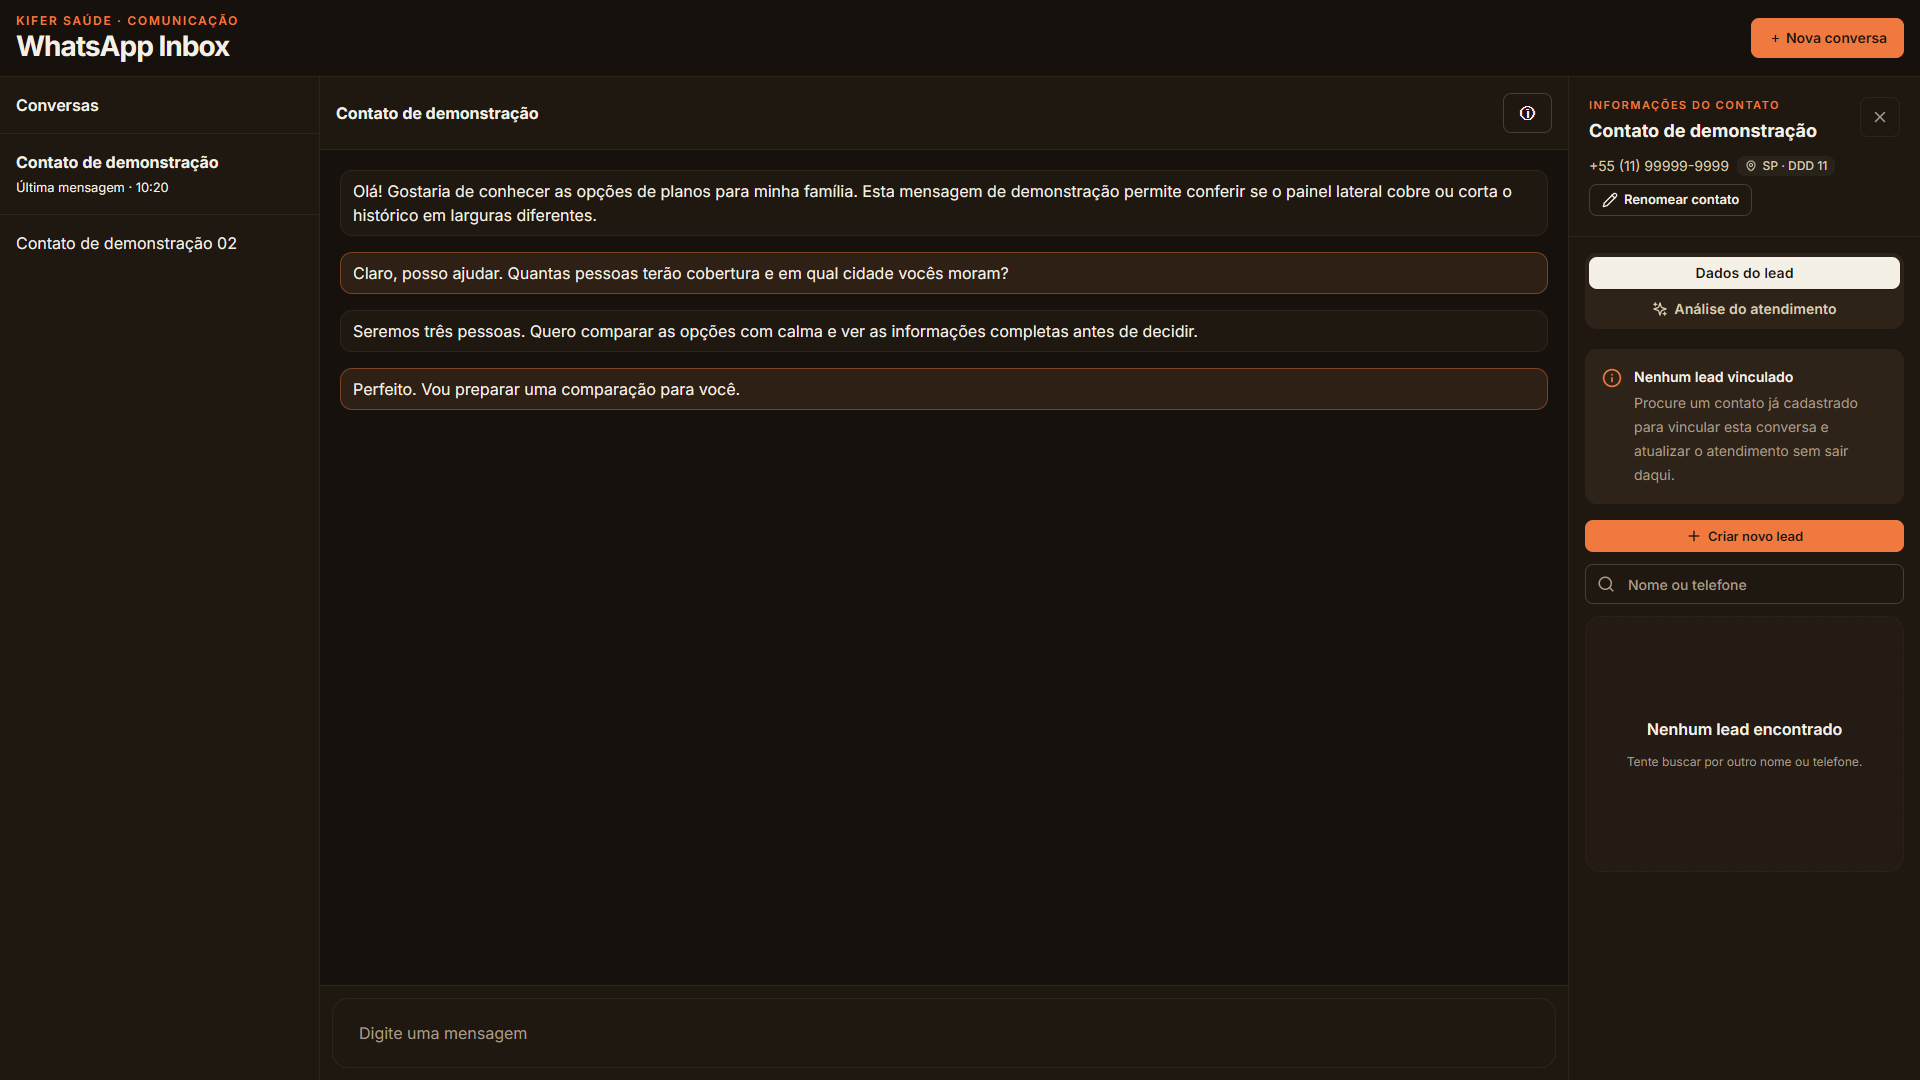
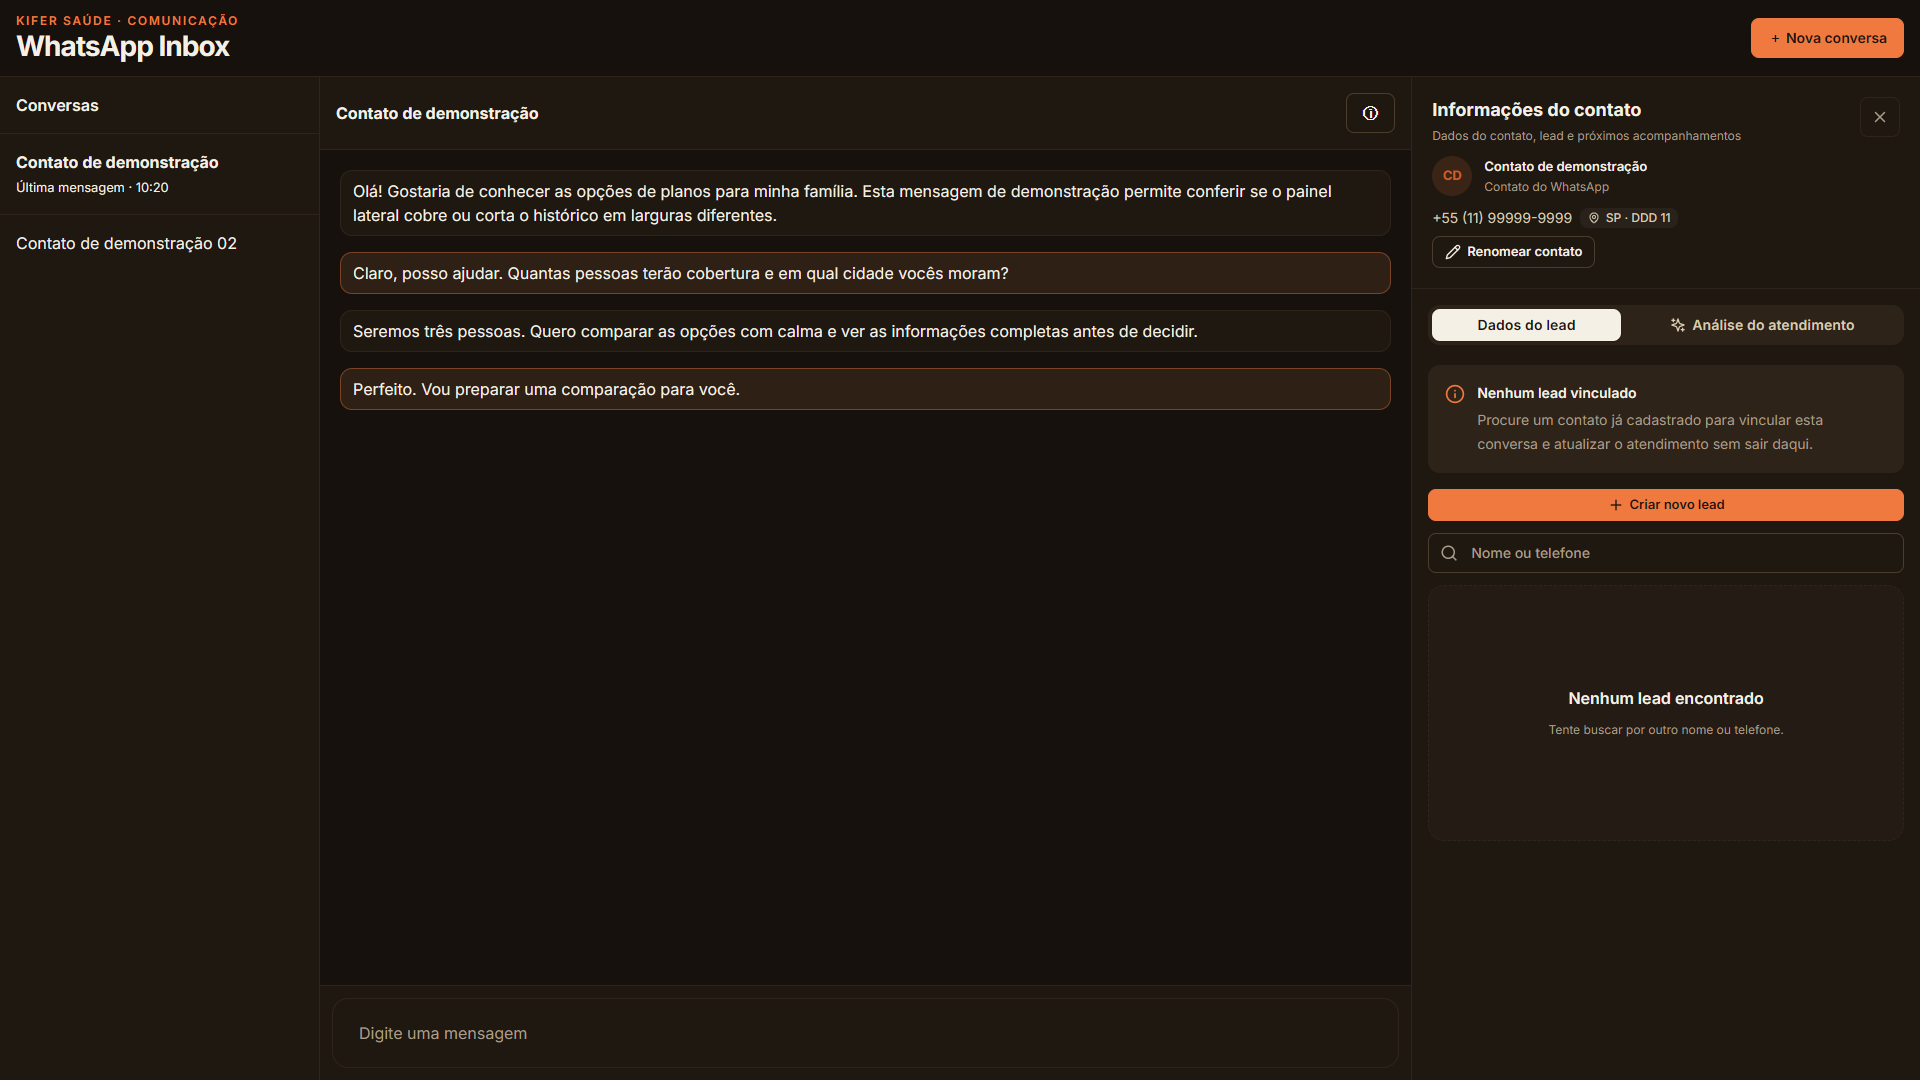
fix(inbox): keep inbound media timestamps inset

Changed region(s): [[0.6875, 0.0917, 1.0, 0.55], [0.8125, 0.6417, 0.9688, 0.7333], [0.1875, 0.1833, 0.4062, 0.2139]]

diff --git a/src/features/communication/whatsapp/components/WhatsAppLeadDrawer.tsx b/src/features/communication/whatsapp/components/WhatsAppLeadDrawer.tsx
@@ -1,4 +1,3 @@
-import { Text, Heading } from '../../../../design-system';
 import { AlertTriangle, ArrowUpRight, Bell, Bot, CalendarPlus, Check, Clock3, Loader2, MapPin, Pencil, RefreshCw, Sparkles, Unlink, Info, Link2, Plus, UserPlus } from 'lucide-react';
 import { useCallback, useEffect, useMemo, useRef, useState, type ChangeEvent } from 'react';
 
@@ -6,6 +5,7 @@ import LeadDetailsPanel from '../../../../components/LeadDetailsPanel';
 import { LeadFavoriteBadge } from '../../../../components/LeadFavoriteStar';
 import ReminderSchedulerModal from '../../../../components/ReminderSchedulerModal';
 import {
+  Avatar,
   Badge,
   Button,
   DateTimePicker,
@@ -14,11 +14,13 @@ import {
   DrawerBody,
   DrawerHeader,
   EmptyState,
+  Heading,
   InfoTooltip,
   OperationalStatusBadge,
   SearchInput,
   Surface,
   Tabs,
+  Text,
   type TabItem,
 } from '../../../../design-system';
 import { SAO_PAULO_TIMEZONE, formatDateTimeForInput, formatDateTimeFullBR, isOverdue } from '../../../../lib/dateUtils';
@@ -106,16 +108,6 @@ const getDayKey = (value: string | Date) => {
 
   return DAY_KEY_FORMATTER.format(date);
 };
-
-const getInitial = (value: string) => value.trim().charAt(0).toUpperCase() || '#';
-
-function LeadAvatar({ label }: { label: string }) {
-  return (
-    <div className="flex h-9 w-9 shrink-0 items-center justify-center rounded-full bg-[var(--accent-gold-soft)] text-sm font-semibold text-[var(--accent-gold-hover)]">
-      {getInitial(label)}
-    </div>
-  );
-}
 
 export default function WhatsAppLeadDrawer({
   isOpen,
@@ -471,13 +463,25 @@ export default function WhatsAppLeadDrawer({
   const drawerContent = (
     <>
         <DrawerHeader onClose={onClose} className="comm-whatsapp-lead-drawer-header">
-          <Text className="text-[11px] font-semibold uppercase tracking-[0.14em] text-[var(--brand-primary)]">{presentation === 'sidebar' ? 'Informações do contato' : 'Info do chat'}</Text>
           {presentation === 'sidebar' ? (
-            <Heading level={2} className="mt-1 text-base font-semibold text-[var(--text-primary)]">{chatDisplayName}</Heading>
+            <>
+              <Heading level={2} family="interface" weight="semibold">Informações do contato</Heading>
+              <Text size="xs" tone="muted" className="mt-1">Dados do contato, lead e próximos acompanhamentos</Text>
+              <div className="mt-3 flex min-w-0 items-center gap-3">
+                <div className="shrink-0" aria-hidden="true"><Avatar name={chatDisplayName} size="md" tone="brand" /></div>
+                <div className="min-w-0">
+                  <Text as="div" size="sm" tone="primary" weight="semibold" className="truncate">{chatDisplayName}</Text>
+                  <Text as="div" size="xs" tone="muted" className="mt-0.5 truncate">{linkedLead?.status_nome || 'Contato do WhatsApp'}</Text>
+                </div>
+              </div>
+            </>
           ) : (
-            <DialogTitle className="mt-1">{chatDisplayName}</DialogTitle>
+            <>
+              <Text size="xs" tone="brand" weight="semibold" className="uppercase tracking-[0.14em]">Info do chat</Text>
+              <DialogTitle className="mt-1">{chatDisplayName}</DialogTitle>
+              <Text size="sm" tone="muted" className="mt-1">Lead, contratos e próximos acompanhamentos</Text>
+            </>
           )}
-          {presentation === 'drawer' ? <Text className="mt-1 text-sm text-[var(--text-muted)]">Lead, contratos e próximos acompanhamentos</Text> : null}
           <div className="mt-3 min-w-0 space-y-2">
             <div className="flex min-w-0 flex-wrap items-center gap-x-2 gap-y-2 text-sm text-[var(--text-secondary)]">
               <span className="min-w-0 truncate">{formatCommWhatsAppPhoneLabel(chatPhoneNumber)}</span>
@@ -709,7 +713,7 @@ export default function WhatsAppLeadDrawer({
                 {suggestedLead && (
                   <Surface padding="sm" className="border-[var(--brand-primary-border)]">
                     <div className="flex items-start gap-3">
-                      <LeadAvatar label={suggestedLead.nome_completo || suggestedLead.telefone || '?'} />
+                      <div className="shrink-0" aria-hidden="true"><Avatar name={suggestedLead.nome_completo || suggestedLead.telefone || '?'} size="sm" tone="brand" /></div>
                       <div className="min-w-0 flex-1">
                         <Text className="text-[11px] font-semibold uppercase tracking-[0.14em] text-[var(--accent-gold-hover)]">
                           Sugestão para esta conversa
@@ -768,7 +772,7 @@ export default function WhatsAppLeadDrawer({
                       .filter((lead) => lead.id !== suggestedLead?.id)
                       .map((lead) => (
                       <Surface key={lead.id} variant="muted" padding="sm" className="flex items-center gap-3">
-                        <LeadAvatar label={lead.nome_completo || lead.telefone || '?'} />
+                        <div className="shrink-0" aria-hidden="true"><Avatar name={lead.nome_completo || lead.telefone || '?'} size="sm" tone="brand" /></div>
                         <div className="min-w-0 flex-1">
                           <Text className="flex items-center gap-1.5 truncate text-sm font-semibold text-[var(--text-primary)]">
                             <LeadFavoriteBadge favorito={lead.favorito} />

diff --git a/src/features/communication/whatsapp/components/WhatsAppMessageThread.tsx b/src/features/communication/whatsapp/components/WhatsAppMessageThread.tsx
@@ -184,7 +184,7 @@ export function WhatsAppMessageThread({
                       );
                       const mediaGroupMeta = (
                         <div className={`whatsapp-inbox-message-meta whatsapp-inbox-message-meta-external ${inboxMediaMetaSpacing} mt-1 flex flex-wrap items-center gap-2 text-[11px] font-medium ${lastMessage.direction === 'outbound' ? 'justify-end' : 'justify-start'}`}>
-                          <span className="inline-flex shrink-0 items-center gap-1 whitespace-nowrap">
+                          <span className="whatsapp-inbox-media-meta-time inline-flex shrink-0 items-center gap-1 whitespace-nowrap">
                             <span>{formatMessageTime(lastMessage.message_at)}</span>
                             {lastMessage.direction === 'outbound' && !groupMediaSendingMessage ? <DeliveryStatusIndicator message={lastMessage} /> : null}
                           </span>
@@ -257,6 +257,7 @@ export function WhatsAppMessageThread({
                       )}>
                         <span className={cx(
                           `${messageMetaTimeOrder} inline-flex shrink-0 items-center gap-1 whitespace-nowrap`,
+                          isBubblelessMediaMessage(message) ? 'whatsapp-inbox-media-meta-time' : null,
                         )}>
                           <span>{formatMessageTime(message.message_at)}</span>
                           {message.direction === 'outbound' && !mediaSending ? <DeliveryStatusIndicator message={message} /> : null}

diff --git a/src/features/communication/whatsapp/components/__tests__/WhatsAppMessageThread.test.tsx b/src/features/communication/whatsapp/components/__tests__/WhatsAppMessageThread.test.tsx
@@ -110,6 +110,7 @@ const assertMediaMetaHasConsistentSpacing = (markup: string) => {
 
   assert.equal(classes.length, 1);
   assert.ok(classes[0]?.includes('whatsapp-inbox-media-meta'));
+  assert.ok(classLists.some((classList) => classList.includes('whatsapp-inbox-media-meta-time')));
 };
 
 const assertExternalMediaMetaHasInset = (markup: string) => {
@@ -144,6 +145,13 @@ test('mantém o horário recuado quando a mídia inbound também tem legenda', (
 
 test('mantém o horário inbound com recuo em mensagens de áudio sem bubble', () => {
   const message = createMessage('voice-1', 'voice');
+  const markup = renderThread([{ type: 'message', key: `message:${message.id}`, message }], [message]);
+
+  assertExternalMediaMetaHasInset(markup);
+});
+
+test('mantém o horário inbound recuado em stickers sem bubble', () => {
+  const message = createMessage('sticker-1', 'sticker');
   const markup = renderThread([{ type: 'message', key: `message:${message.id}`, message }], [message]);
 
   assertExternalMediaMetaHasInset(markup);

diff --git a/src/design-system/communication.css b/src/design-system/communication.css
@@ -128,12 +128,19 @@
    dos balões de texto, mesmo dentro de wrappers com utilitários de reset. */
 .whatsapp-inbox-message-meta.whatsapp-inbox-media-meta {
   box-sizing: border-box;
-  padding: var(--space-1, 0.25rem) var(--space-3, 0.75rem);
+  padding-block: var(--space-1, 0.25rem);
 }
 
-.whatsapp-inbox-thread .whatsapp-inbox-message-meta-external {
+/* A data e a hora ficam fora da bolha em alguns tipos de mensagem. Mantenha o
+   recuo mesmo quando a thread for exibida em um contexto compacto ou portal. */
+.whatsapp-inbox-message-meta.whatsapp-inbox-message-meta-external {
   box-sizing: border-box;
-  padding: var(--space-2) var(--space-3);
+  padding-block: var(--space-2);
+}
+
+.whatsapp-inbox-media-meta-time {
+  box-sizing: border-box;
+  padding-inline: var(--space-3, 0.75rem);
 }
 
 .comm-terracotta .whatsapp-inbox-image-card,

diff --git a/kifersaude-ui-redesign/validacao/revisao-visual/inbox/README.md b/kifersaude-ui-redesign/validacao/revisao-visual/inbox/README.md
@@ -10,7 +10,7 @@
 - Até 430 px, o campo de mensagem usa uma linha própria e as ações de composição ficam abaixo. Assim o placeholder e o texto digitado não são comprimidos pelos botões, inclusive em 320 px.
 - O texto das mensagens fica alinhado à esquerda; o justificado anterior abria espaços irregulares entre palavras em telas estreitas.
 - Ajuste de 29/10: o histórico conserva 20 px de margem externa à esquerda e à direita (`px-5`); mensagens textuais e a prévia de follow-up mantêm 12 px nas laterais e 8 px na vertical (`px-3 py-2`) para o texto respirar sem alargar demais a bubble. O padding externo do histórico é independente e permanece nos dois lados. Legendas de mídia mantêm o espaçamento próprio do componente.
-- Horários de mídias individuais e agrupadas recebem 12 px laterais e 4 px verticais no contêiner `.whatsapp-inbox-media-meta`. Data, hora e ações compartilham o mesmo recuo; mensagens textuais continuam usando o padding do próprio balão. O seletor não depende mais do ancestral `.whatsapp-inbox-thread`, preservando o recuo quando o mesmo componente é renderizado dentro de outros wrappers. A regra foi conferida no Inbox sintético em 1920, 768, 390 e 320 px, nos temas claro e escuro.
+- Em mensagens de mídia, o contêiner mantém 4 px verticais e o próprio trecho de data/hora recebe 12 px laterais (`.whatsapp-inbox-media-meta-time`). Mídias sem bolha também ganham 8 px verticais; mensagens textuais continuam usando o padding do balão. O recuo não depende do ancestral `.whatsapp-inbox-thread` e cobre imagens, legendas, áudio, stickers e grupos. Playwright confirmou os 12 px em 1920, 768, 390 e 320 px, sem overflow; a suíte do componente cobre as variações inbound.
 - O cartão de agenda do painel contextual mantém o título “Agenda do chat” em uma linha, com a explicação no `InfoTooltip`. As ações **Agendar** e **Atualizar** ocupam uma grade alinhada e fluida; a composição empilha título e ações em qualquer largura porque o painel tem largura própria, independente do breakpoint da janela.
 - O cabeçalho da conversa agora mantém apenas o nome e o próximo lembrete. Telefone, região do número, presença, opção para salvar/renomear o contato e estado da IA ficam na barra **Informações do contato**; status, responsável e favorito continuam na ficha do lead dentro dela. A barra reaproveita os componentes e handlers já existentes, sem duplicar regras comerciais.
 - A indisponibilidade da integração aparece como aviso persistente. A fixture local não conecta ao WhatsApp; o aviso foi mantido para não esconder uma condição operacional relevante.
@@ -49,9 +49,9 @@ Playwright CLI verificou a grade em 1920 × 1080 (shell 1856 px), 1272 × 800 (s
 
 ## Painel de contato real — validação visual responsiva (31/10/2026)
 
-O `WhatsAppLeadDrawer` de produção foi renderizado no shell local da Inbox e verificado com Playwright em 1920 × 1080, 1272 × 800, 768 × 1024, 390 × 844 e 320 × 640, nos temas claro e escuro. No desktop, a ficha manteve 352 px e o compositor continuou alinhado ao rodapé da conversa; em tablet e mobile, a ficha ocupou toda a área de trabalho enquanto a conversa e a lista ficaram ocultas. A largura do documento permaneceu igual à viewport em todos os casos.
+O `WhatsAppLeadDrawer` de produção foi renderizado no shell sintético da Inbox com Playwright. Após reorganizar o cabeçalho, recapturei 1920 × 1080 nos temas claro e escuro; 1272 × 800, 768 × 1024 e 320 × 640 no tema claro; 390 × 844 nos dois temas; e 320 × 640 no tema escuro, inclusive após rolagem interna. O painel usa 508,8 px a 1920 px e 352 px a 1272 px; em tablet e mobile ocupa toda a área de trabalho enquanto a conversa e a lista ficam ocultas. A largura do documento permaneceu igual à viewport em todas as medidas.
 
-Em 320 px, encurtei o placeholder visual da busca para **Nome ou telefone**, preservando o nome acessível completo **Buscar lead por nome ou telefone**. Playwright confirmou que o texto cabe no campo e que a ficha rola internamente. Duas capturas adicionais registram a parte inferior e os controles intermediários do painel. As 12 imagens estão em [contact-panel](contact-panel/) e as medidas em [coverage.json](coverage.json).
+Em 320 px, o placeholder visual da busca é **Nome ou telefone**, preservando o nome acessível completo **Buscar lead por nome ou telefone**. Playwright confirmou que o texto cabe no campo e que a ficha rola internamente. O cabeçalho atualizado segue a referência: título e descrição próprios, Avatar reutilizável, nome e status real do lead. As capturas atuais cobrem claro/escuro em desktop e mobile; tablet e 320 px também foram recapturados no tema claro, com a rolagem interna renovada no tema escuro. As 12 imagens estão em [contact-panel](contact-panel/) e as medidas em [coverage.json](coverage.json). A prévia usa build de produção isolado, dados sintéticos, callbacks sem efeito e URL Supabase local de placeholder; nenhuma credencial real ou operação foi usada.
 
 Esta evidência cobre o componente real e sua composição responsiva, mas não substitui a revisão integrada da rota autenticada `/painel/inbox`: a moldura da conversa/lista/compositor é estática e não foram exercitadas ações reais. A rota autenticada e os demais contextos da Inbox permanecem pendentes.
 
@@ -63,7 +63,7 @@ Playwright CLI verificou 1920 × 1080, 768 × 1024, 390 × 844 e 320 × 640, sem
 
 A referência dessa seção mostra cinco origens (Site, Indicação, Meta Ads, WhatsApp e Outros). O tipo real `CommWhatsAppChat` não expõe origem, então o filtro continua cobrindo somente atividade não lida, status do lead e agente responsável. Não inventei categorias nem uma regra de associação. No desktop/tablet o diálogo permanece junto ao acionador real; em 390 e 320 px ele ocupa a viewport. Essa diferença funcional foi comparada e registrada em `state--inbox-filtros` como adaptação; a rota integrada autenticada continua pendente.
 
-A metadata de mídias inbound mantém o padding no contêiner compartilhado (12 px horizontal e 4 px vertical). Playwright confirmou os valores computados em mensagens reais da fixture; o estado específico de mídia sem legenda permanece coberto pelo teste do componente.
+O recuo lateral agora pertence diretamente ao trecho de data/hora; o contêiner de metadados cuida apenas do espaço vertical. Playwright confirmou `padding-inline: 12px` nas larguras 1920, 768, 390 e 320 px, inclusive removendo `.whatsapp-inbox-thread` do wrapper, sem overflow. Os testes cobrem imagem com reação, mídia com legenda, áudio, sticker e agrupamento. A fixture usa conversa sintética e callbacks sem efeito; a rota autenticada continua pendente.
 
 ## Agendamento de mensagens — revisão integrada — 31/10/2026
 

diff --git a/kifersaude-ui-redesign/STATUS_IMPLEMENTACAO.md b/kifersaude-ui-redesign/STATUS_IMPLEMENTACAO.md
@@ -190,6 +190,8 @@ O manifesto registra **160 contextos**: **47 páginas, 19 contextos adicionais e
 
 - A regra de três colunas considera a largura disponível dentro do Inbox. Com 72rem (1152 px CSS) ou mais, lista, conversa e Informações do contato ficam lado a lado. Abaixo disso, o painel ocupa a área de trabalho enquanto está aberto. Playwright CLI verificou a regra em 1920, 1272 (zoom), 1024, 768, 390 e 320 px, sem overflow.
 - Em 31/10, a revisão passou a renderizar o `WhatsAppLeadDrawer` real em cinco larguras, nos temas claro e escuro. O campo de busca usa o placeholder curto **Nome ou telefone** e mantém seu rótulo acessível completo; as capturas em 320 px também registram a rolagem interna. A shell da conversa continua estática e a rota autenticada ainda precisa de conferência integrada. [Evidências e limitações](validacao/revisao-visual/inbox/README.md).
+- O cabeçalho de **Informações do contato** foi reorganizado conforme a referência: título e descrição próprios, identidade com nome e status real do lead e Avatar reutilizável do design system. As sugestões de leads também passaram a usar esse Avatar; telefone, DDD, presença, renomeação, estado da IA e ações existentes foram preservados. As capturas Playwright foram renovadas em desktop, tablet e mobile, nos temas claro e escuro, incluindo rolagem do painel em 320 px.
+- O horário inbound de mídias agora recebe 12 px de recuo no próprio trecho de data/hora, enquanto o metadado preserva seu espaçamento vertical. Playwright confirmou o estilo em 1920, 768, 390 e 320 px sem overflow e mesmo sem o ancestral `.whatsapp-inbox-thread`; os testes cobrem imagem, legenda, áudio, sticker e agrupamento.
 
 ### Configurações — alinhamento do ícone de informação (31/10/2026)
 
